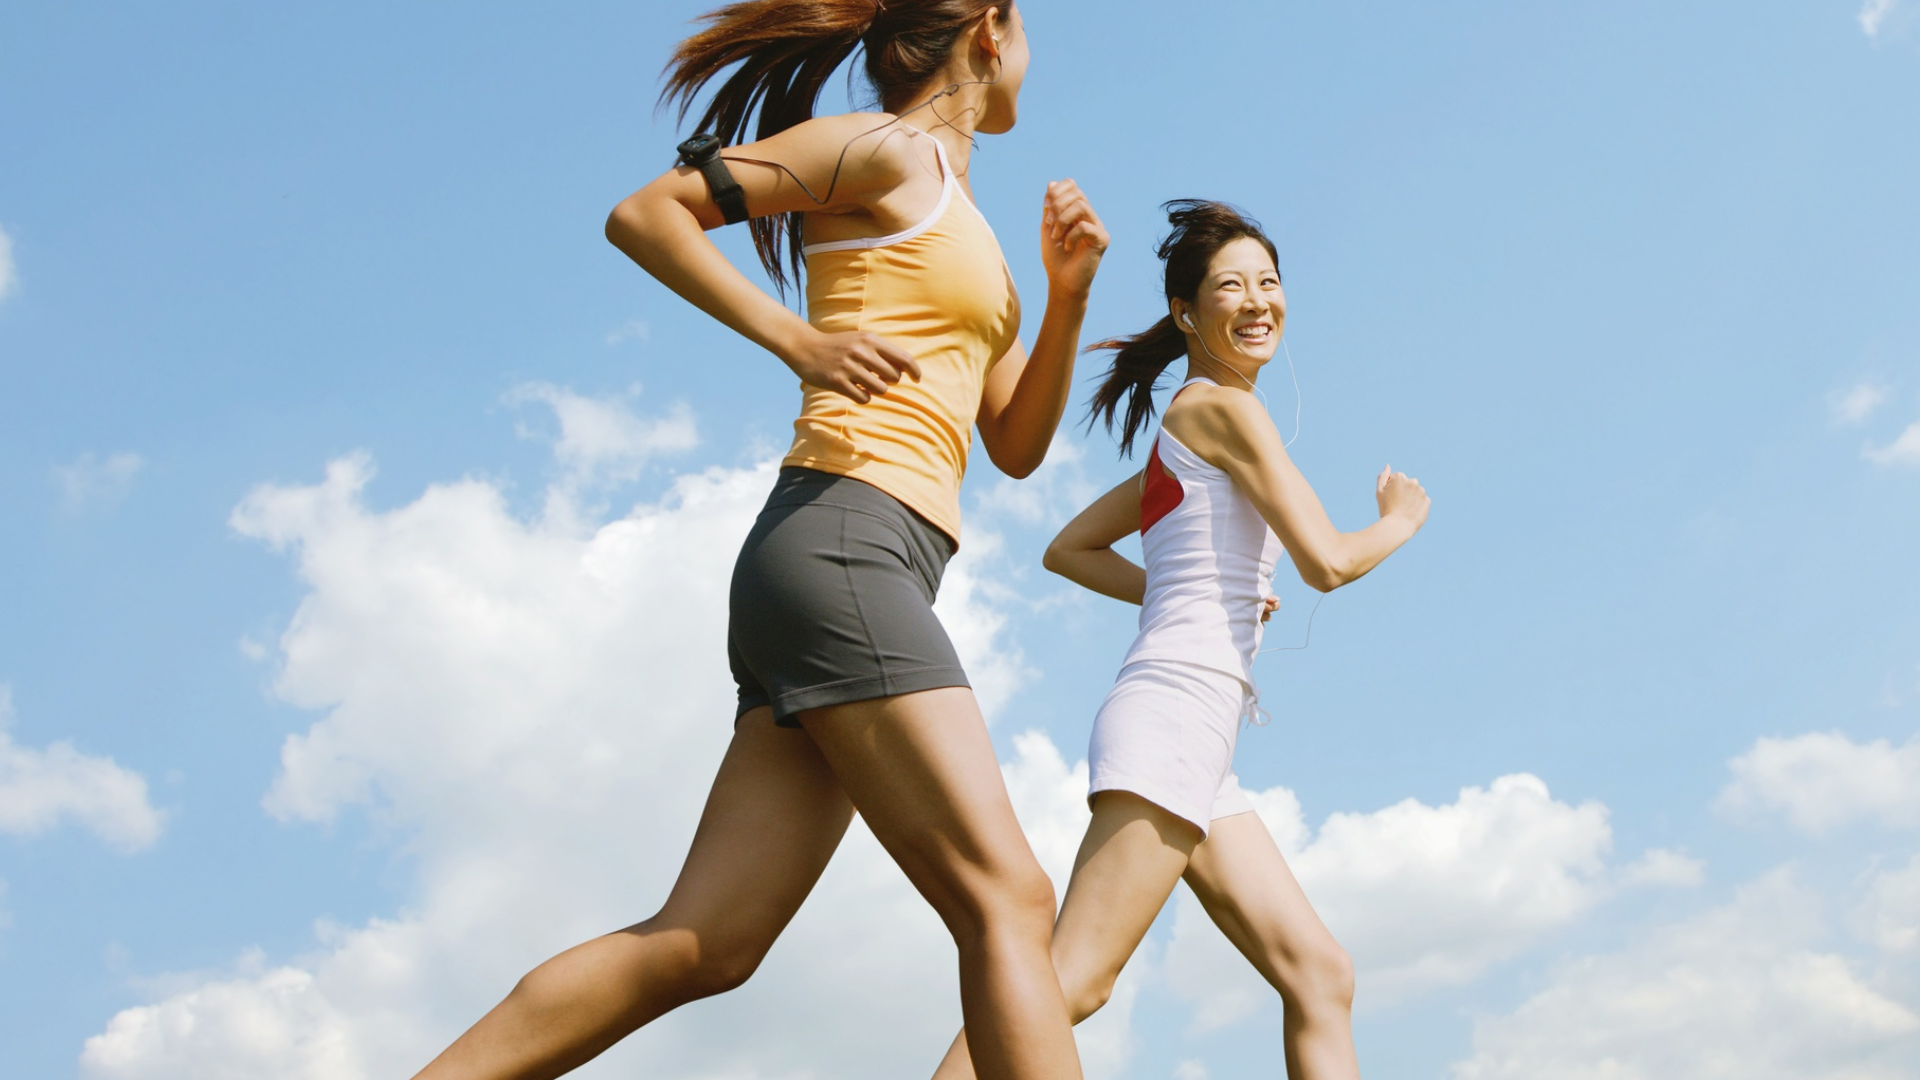
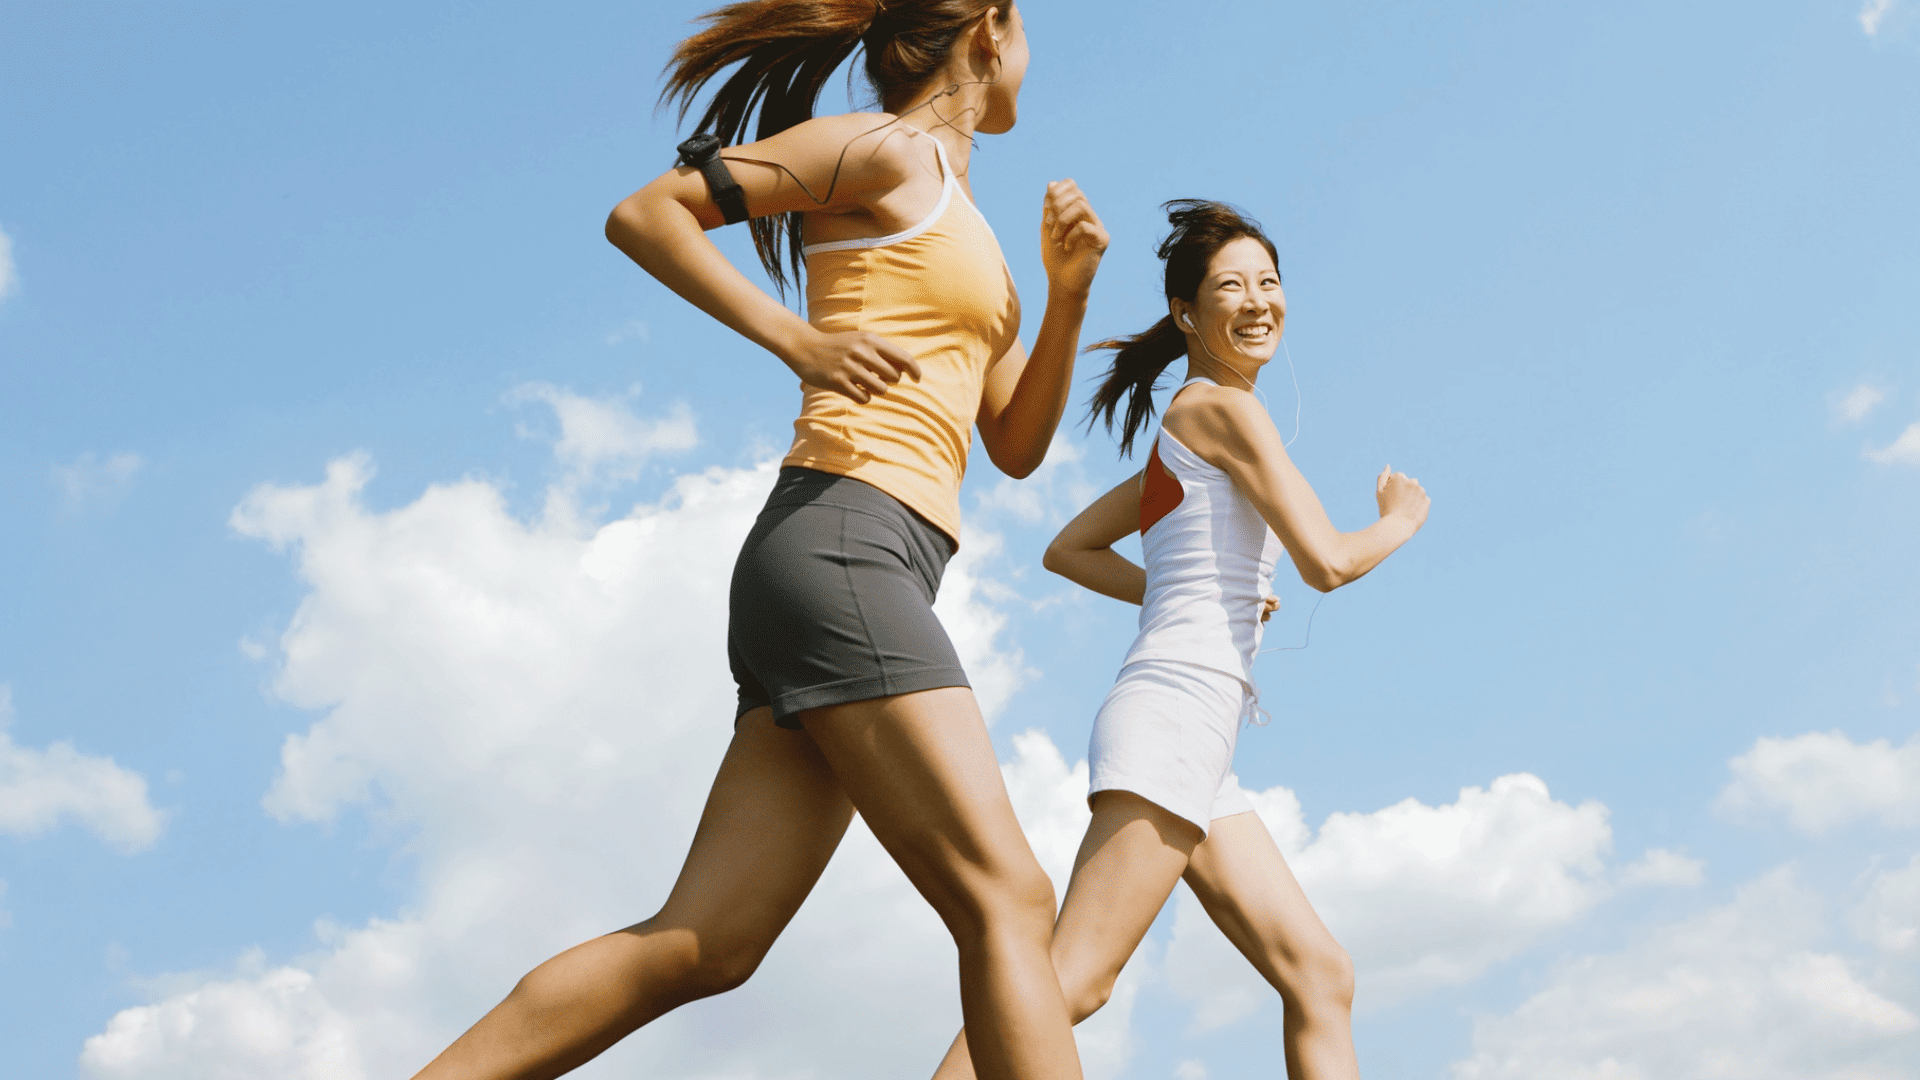
redução de tamanho das imagens

diff --git a/pages/products/sem_produto.html b/pages/products/sem_produto.html
@@ -67,16 +67,6 @@
   </header>
 
   <!-- ==========================================================
-         BANNER DO TOPO (1 foto, sem JS)  [CSS 4]
-         Para trocar a foto, altere o src da <img>
-         ========================================================== -->
-  <!-- <section id="topo" class="slider-container carrossel-container">
-    <div class="slide active">
-      <img class="foto_carrossel" src="../../img/no_product.jpg" alt="ProstaVive">
-    </div>
-  </section> -->
-
-  <!-- ==========================================================
          CONTEÚDO PRINCIPAL: cada bloco abaixo é uma SEÇÃO independente
          ========================================================== -->
   <main>
